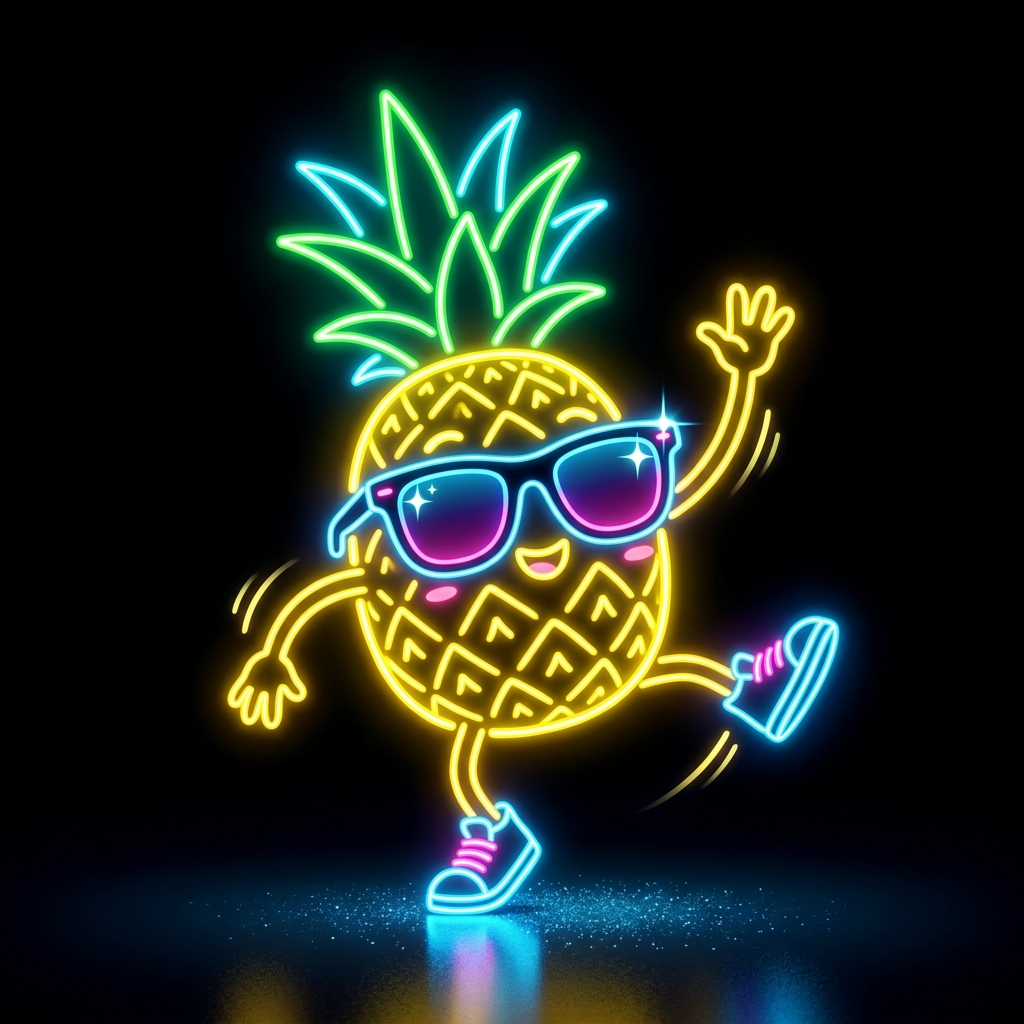
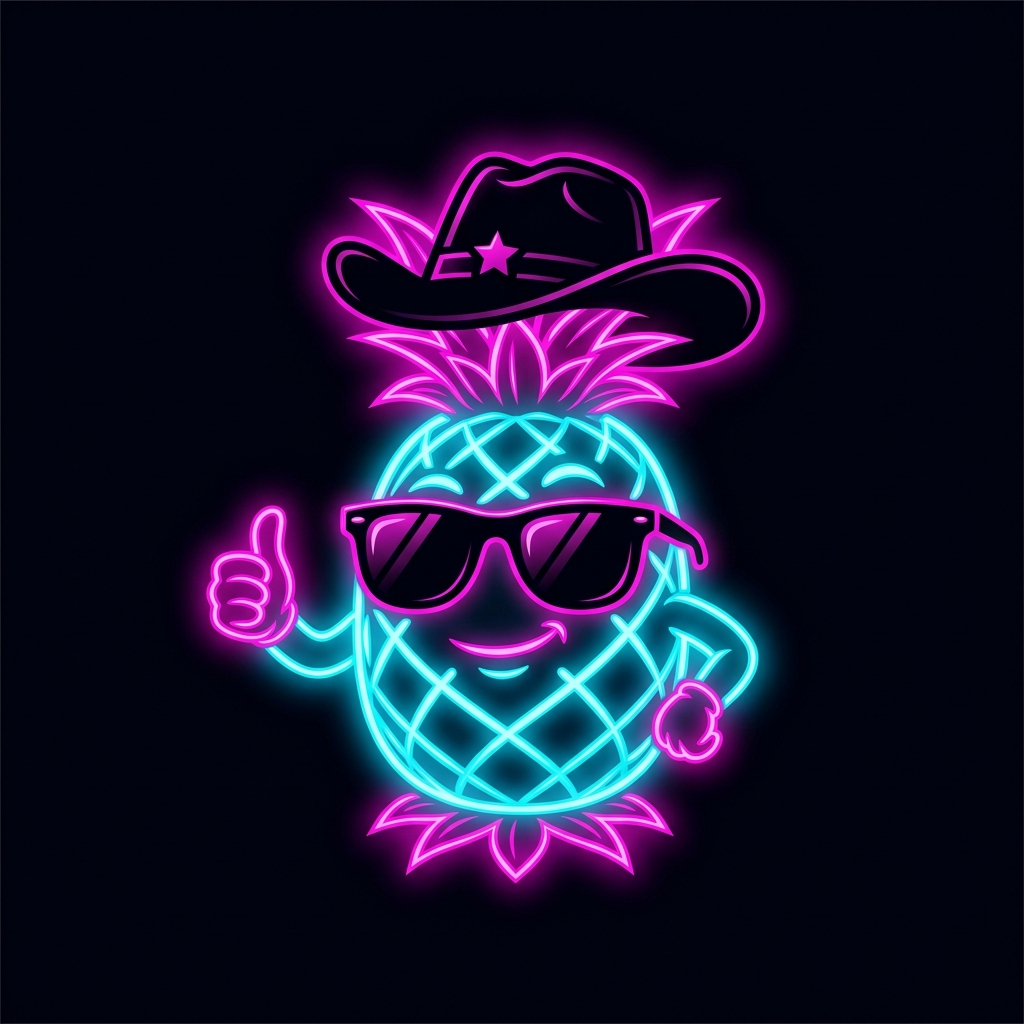
Implement neon cowboy pineapple with floss dance animation in club poll results

diff --git a/club.html b/club.html
@@ -168,14 +168,25 @@
           background: rgba(0, 20, 10, 0.8) !important;
         }
         @keyframes pineapple-dance {
-          0% { transform: translateY(0) rotate(0deg) scale(1); }
-          25% { transform: translateY(-20px) rotate(15deg) scale(1.1); }
-          50% { transform: translateY(0) rotate(0deg) scale(1); }
-          75% { transform: translateY(-20px) rotate(-15deg) scale(1.1); }
-          100% { transform: translateY(0) rotate(0deg) scale(1); }
+          0%, 100% {
+            transform: translateX(0) rotate(0deg) skewX(0deg) scale(1);
+            transform-origin: bottom center;
+          }
+          20% {
+            transform: translateX(-40px) rotate(-12deg) skewX(8deg) scaleY(0.9) scaleX(1.1);
+          }
+          40% {
+            transform: translateX(0) rotate(0deg) skewX(0deg) scaleY(1.05) scaleX(0.95);
+          }
+          60% {
+            transform: translateX(40px) rotate(12deg) skewX(-8deg) scaleY(0.9) scaleX(1.1);
+          }
+          80% {
+            transform: translateX(0) rotate(0deg) skewX(0deg) scaleY(1.05) scaleX(0.95);
+          }
         }
         .dancing-pineapple {
-          animation: pineapple-dance 1s infinite ease-in-out;
+          animation: pineapple-dance 1.2s infinite ease-in-out;
         }
         .poll-btn {
           background: rgba(255, 255, 255, 0.1);